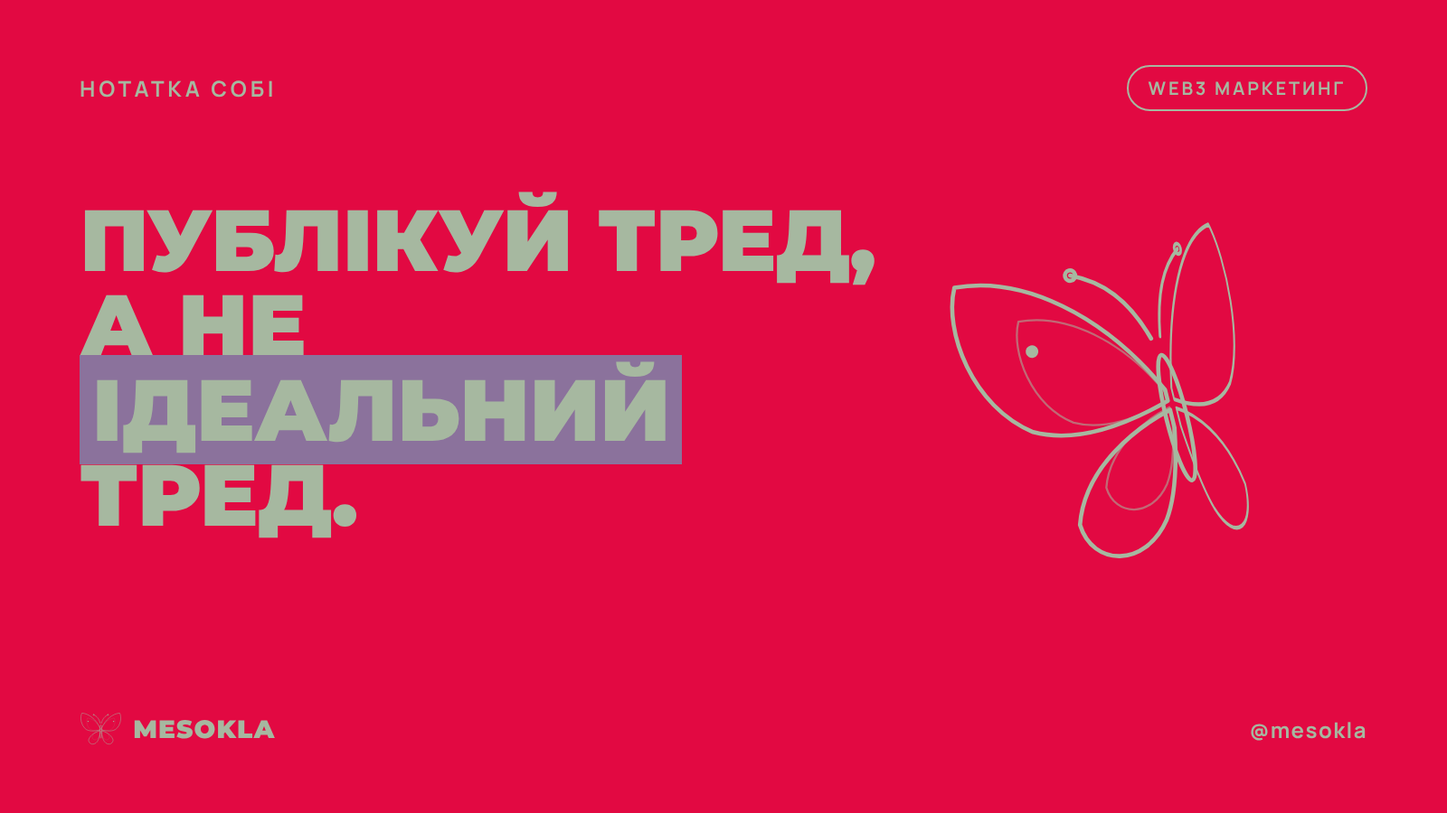
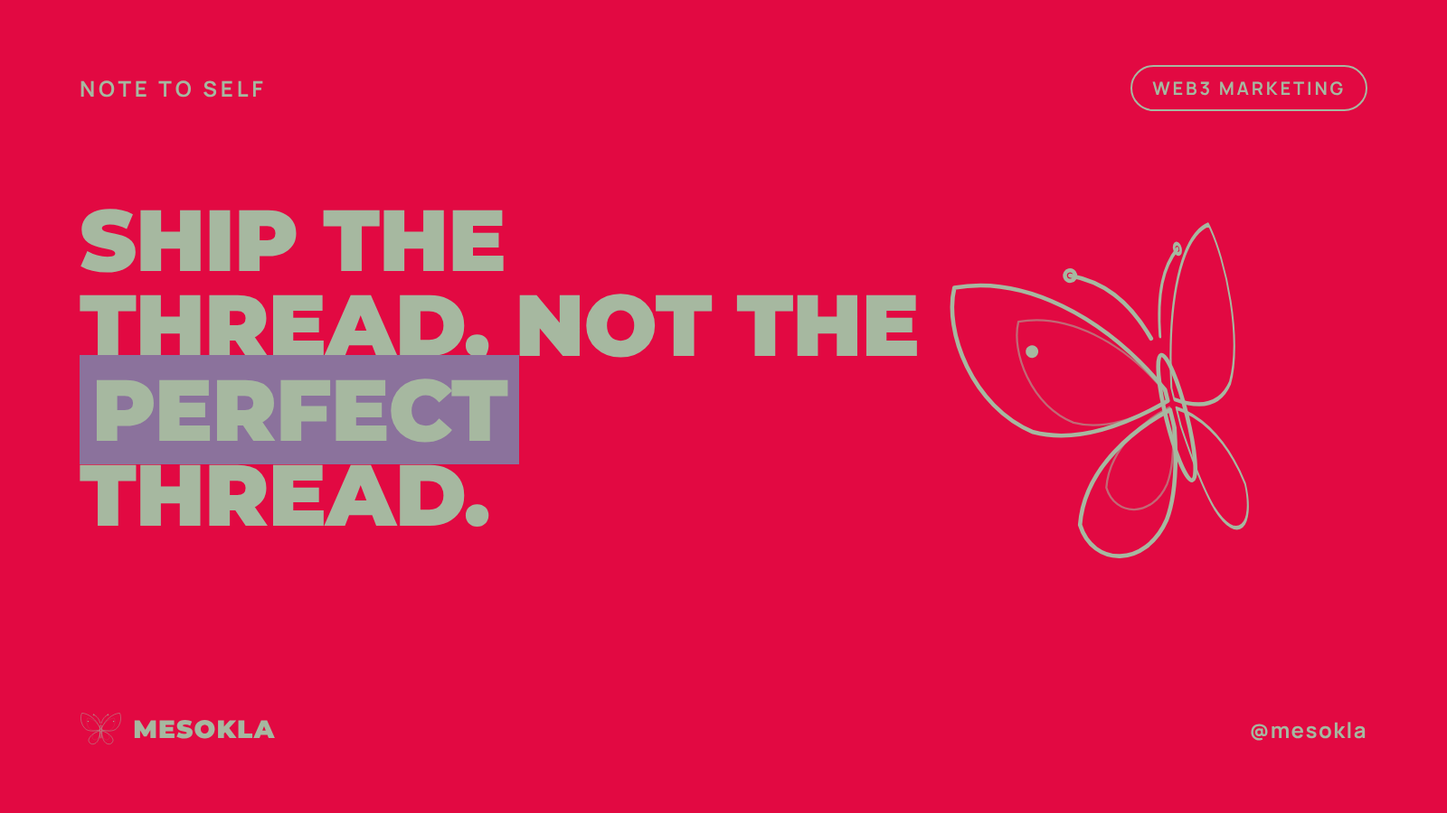
mesokla-brand: brand book and template defaults in English
Claude-Session: https://claude.ai/code/session_01Li97fhWJJ6ne7518bAykqP

Changed region(s): [[0.0312, 0.2178, 0.6562, 0.6533], [0.7812, 0.0933, 0.9375, 0.1244], [0.0938, 0.0933, 0.1875, 0.1244]]

diff --git a/.claude/skills/mesokla-brand/brandbook.html b/.claude/skills/mesokla-brand/brandbook.html
@@ -105,141 +105,141 @@ footer{padding-block:40px;background:var(--crimson);color:var(--leaf)}
 </style>
 
 <header class="s-leaf hero"><div class="wrap">
-  <div class="label">brandbook v4 · x / twitter</div>
+  <div class="label">brand book v5 · x / twitter</div>
   <h1 style="margin-top:22px">mesokla</h1>
-  <p class="lead">Три кольори з твого референсу і більше нічого. Великий жирний шрифт великими літерами, рівні плашки кольору, жодних текстур чи декору. Простота тут і є стиль.</p>
+  <p class="lead">Three colours, nothing else. Big bold uppercase type, flat colour blocks, no textures or decoration. The simplicity is the style. One line-art moth is the only illustration.</p>
 </div></header>
 
 <main>
 <section class="s-violet"><div class="wrap">
-  <div class="label">01 · колір</div>
-  <h2>Тільки три кольори</h2>
-  <p class="lead">Ні білого, ні чорного. Один з трьох кольорів стає фоном, другий іде на текст, третій на одну плашку-виділення.</p>
+  <div class="label">01 · colour</div>
+  <h2>Three colours only</h2>
+  <p class="lead">No white, no black. One colour is the background, the second carries the text, the third is a single highlight block.</p>
   <div class="cards">
-    <div class="card c-leaf"><div><div class="n">Шавлія</div><div class="r">Основний фон профілю і корисних постів.</div></div><div class="h">#A6B8A0</div></div>
-    <div class="card c-violet" style="outline:3px solid var(--leaf);outline-offset:-3px"><div><div class="n">Фіалка</div><div class="r">Треди, анонси, колаби. Виділення на листовому фоні.</div></div><div class="h">#8B729C</div></div>
-    <div class="card c-crimson"><div><div class="n">Малина</div><div class="r">Головний текст на листовому фоні, хот-тейки, акценти.</div></div><div class="h">#E20942</div></div>
+    <div class="card c-leaf"><div><div class="n">Leaf Skin</div><div class="r">Main background for the profile and value posts.</div></div><div class="h">#A6B8A0</div></div>
+    <div class="card c-violet" style="outline:3px solid var(--leaf);outline-offset:-3px"><div><div class="n">Muted Violet</div><div class="r">Threads, announcements, collabs. Highlight on leaf.</div></div><div class="h">#8B729C</div></div>
+    <div class="card c-crimson"><div><div class="n">Electric Crimson</div><div class="r">Main text on leaf, hot takes, accents.</div></div><div class="h">#E20942</div></div>
   </div>
   <div class="grid pairs">
-    <div class="pair c-leaf" style="outline:none">Шавлія<small style="color:var(--violet)">фон шавлія · текст малина · виділення фіалка</small></div>
-    <div class="pair c-violet">Фіалка<small>фон фіалка · текст шавлія · виділення малина</small></div>
-    <div class="pair c-crimson">Малина<small>фон малина · текст шавлія · виділення фіалка</small></div>
+    <div class="pair c-leaf" style="outline:none">Leaf<small style="color:var(--violet)">bg leaf · text crimson · highlight violet</small></div>
+    <div class="pair c-violet">Violet<small>bg violet · text leaf · highlight crimson</small></div>
+    <div class="pair c-crimson">Crimson<small>bg crimson · text leaf · highlight violet</small></div>
   </div>
-  <p class="never">Ніколи: малиновий текст на фіолетовому і фіолетовий на малиновому, бо ці кольори зливаються. Текст завжди листовий або на листовому.</p>
+  <p class="never">Never: crimson text on violet or violet text on crimson, the two blend together. Text is always leaf, or sits on leaf.</p>
 </div></section>
 
 <section class="s-leaf"><div class="wrap">
-  <div class="label">02 · шрифти</div>
-  <h2>Жирно і великими</h2>
+  <div class="label">02 · type</div>
+  <h2>Bold and uppercase</h2>
   <div class="grid type" style="margin-top:28px">
-    <div class="tcard"><div class="spec" style="color:var(--violet)">Заголовки · Montserrat Black 900 · капс</div><div style="font-family:var(--display);font-weight:900;font-size:clamp(44px,7vw,84px);line-height:.92;text-transform:uppercase">Спершу хук.<br>Потім <span style="background:var(--violet);color:var(--leaf);padding:0 .12em">користь</span>.</div><p style="font-size:15px">Заголовки, вордмарк, головна думка посту. Міжрядковий 0.92–1, без курсиву. Одне слово можна виділити плашкою.</p></div>
-    <div class="tcard"><div class="spec" style="color:var(--violet)">Дрібний текст · Manrope 600–800</div><div style="font-size:26px;font-weight:700;line-height:1.3">Пости, коли аудиторія не спить.</div><div class="label" style="color:var(--violet)">Тред · 1 / 9</div><p style="font-size:15px">Пункти списків, підписи, хендл. Для кікерів капс з розрядкою.</p></div>
+    <div class="tcard"><div class="spec" style="color:var(--violet)">Headlines · Montserrat Black 900 · caps</div><div style="font-family:var(--display);font-weight:900;font-size:clamp(44px,7vw,84px);line-height:.92;text-transform:uppercase">Hook first.<br>Then <span style="background:var(--violet);color:var(--leaf);padding:0 .12em">value</span>.</div><p style="font-size:15px">Headlines, wordmark, the main point of a post. Line height 0.92–1, no italics. One word may get a highlight block.</p></div>
+    <div class="tcard"><div class="spec" style="color:var(--violet)">Small text · Manrope 600–800</div><div style="font-size:26px;font-weight:700;line-height:1.3">Post when your audience is awake.</div><div class="label" style="color:var(--violet)">Thread · 1 / 9</div><p style="font-size:15px">List items, captions, handle. Kickers in tracked caps.</p></div>
   </div>
 </div></section>
 
 <section class="s-violet"><div class="wrap">
-  <div class="label">03 · метелик</div>
-  <h2>Знак бренду</h2>
-  <p class="lead">Лінійний метелик поєднує три варіанти, які тобі сподобались: середню лінію з Original, тонкий внутрішній контур з Fine і позу з In Flight. Він замінює маскота: живе в підписі, на банері та в анімаціях.</p>
+  <div class="label">03 · the moth</div>
+  <h2>Brand mark</h2>
+  <p class="lead">A line-art moth with a medium stroke, one fine inner contour and a wing spot. It replaces a mascot: it lives in the signature, on the banner and in animation.</p>
   <div class="mothhero"><div class="big"><svg class="flap" aria-hidden="true" viewBox="20 40 360 320"><g stroke="#E20942" stroke-width="3.6" fill="none" stroke-linecap="round" stroke-linejoin="round"><g class="wl"><path d="M196 196C160 120 100 70 40 66C22 100 30 170 76 204C116 226 168 214 196 206Z"/><path d="M196 214C164 222 112 244 96 292C98 330 142 342 170 306C184 286 192 252 196 230Z"/><g transform="translate(196 206) scale(.7) translate(-196 -206)" stroke="#8B729C" stroke-opacity="1" stroke-width="2.57"><path d="M196 196C160 120 100 70 40 66C22 100 30 170 76 204C116 226 168 214 196 206Z"/><path d="M196 214C164 222 112 244 96 292C98 330 142 342 170 306C184 286 192 252 196 230Z"/></g><circle cx="92" cy="136" r="5.5" fill="#E20942" stroke="none"/></g><g class="wr"><g transform="translate(400 0) scale(-1 1)"><path d="M196 196C160 120 100 70 40 66C22 100 30 170 76 204C116 226 168 214 196 206Z"/><path d="M196 214C164 222 112 244 96 292C98 330 142 342 170 306C184 286 192 252 196 230Z"/><g transform="translate(196 206) scale(.7) translate(-196 -206)" stroke="#8B729C" stroke-opacity="1" stroke-width="2.57"><path d="M196 196C160 120 100 70 40 66C22 100 30 170 76 204C116 226 168 214 196 206Z"/><path d="M196 214C164 222 112 244 96 292C98 330 142 342 170 306C184 286 192 252 196 230Z"/></g><circle cx="92" cy="136" r="5.5" fill="#E20942" stroke="none"/></g></g><path d="M195 150C184 112 166 92 140 80"/><circle cx="140" cy="80" r="4.5"/><g transform="translate(400 0) scale(-1 1)"><path d="M195 150C184 112 166 92 140 80"/><circle cx="140" cy="80" r="4.5"/></g><ellipse cx="200" cy="222" rx="9" ry="56"/></g></svg></div>
-    <div><h3>Три пози</h3><p><b>Front</b> для знаку, аватарки й підпису. <b>Flight</b> для руху у візуалах і стікерах. <b>Trail</b> (політ із пунктирним слідом) для банера та анонсів.</p>
-    <p style="margin-top:14px">Колір лінії залежить від фону: на листовому малинова з фіолетовим контуром, на фіолетовому й малиновому листова.</p></div></div>
-  <div class="tiles"><div class="tile t-l"><img src="moth/moth-front-crimson.svg" alt="Метелик front, лінія crimson" loading="lazy"><span class="cap">лінія малина</span></div><div class="tile t-v"><img src="moth/moth-front-leaf.svg" alt="Метелик front, лінія leaf" loading="lazy"><span class="cap">лінія шавлія</span></div><div class="tile t-c"><img src="moth/moth-front-leaf.svg" alt="Метелик front, лінія leaf" loading="lazy"><span class="cap">leaf line</span></div></div>
-  <div class="tiles"><div class="tile t-l"><img src="moth/moth-flight-crimson.svg" alt="Метелик flight, лінія crimson" loading="lazy"><span class="cap">crimson line</span></div><div class="tile t-v"><img src="moth/moth-flight-leaf.svg" alt="Метелик flight, лінія leaf" loading="lazy"><span class="cap">leaf line</span></div><div class="tile t-c"><img src="moth/moth-flight-leaf.svg" alt="Метелик flight, лінія leaf" loading="lazy"><span class="cap">leaf line</span></div></div>
-  <div class="tiles"><div class="tile t-l"><img src="moth/moth-trail-crimson.svg" alt="Метелик trail, лінія crimson" loading="lazy"><span class="cap">crimson line</span></div><div class="tile t-v"><img src="moth/moth-trail-leaf.svg" alt="Метелик trail, лінія leaf" loading="lazy"><span class="cap">leaf line</span></div><div class="tile t-c"><img src="moth/moth-trail-leaf.svg" alt="Метелик trail, лінія leaf" loading="lazy"><span class="cap">leaf line</span></div></div>
-  <h3 style="margin-top:44px">Підпис</h3>
-  <p>Метелик плюс MESOKLA. Стоїть у лівому нижньому куті кожного посту автоматично.</p>
+    <div><h3>Three poses</h3><p><b>Front</b> for the mark, avatar and signature. <b>Flight</b> for motion in visuals and stickers. <b>Trail</b> (flight with a dotted path) for the banner and announcements.</p>
+    <p style="margin-top:14px">The line colour follows the background: crimson with a violet contour on leaf, leaf on violet and crimson.</p></div></div>
+  <div class="tiles"><div class="tile t-l"><img src="moth/moth-front-crimson.svg" alt="Moth, front pose, crimson line" loading="lazy"><span class="cap">crimson line</span></div><div class="tile t-v"><img src="moth/moth-front-leaf.svg" alt="Moth, front pose, leaf line" loading="lazy"><span class="cap">leaf line</span></div><div class="tile t-c"><img src="moth/moth-front-leaf.svg" alt="Moth, front pose, leaf line" loading="lazy"><span class="cap">leaf line</span></div></div>
+  <div class="tiles"><div class="tile t-l"><img src="moth/moth-flight-crimson.svg" alt="Moth, flight pose, crimson line" loading="lazy"><span class="cap">crimson line</span></div><div class="tile t-v"><img src="moth/moth-flight-leaf.svg" alt="Moth, flight pose, leaf line" loading="lazy"><span class="cap">leaf line</span></div><div class="tile t-c"><img src="moth/moth-flight-leaf.svg" alt="Moth, flight pose, leaf line" loading="lazy"><span class="cap">leaf line</span></div></div>
+  <div class="tiles"><div class="tile t-l"><img src="moth/moth-trail-crimson.svg" alt="Moth, trail pose, crimson line" loading="lazy"><span class="cap">crimson line</span></div><div class="tile t-v"><img src="moth/moth-trail-leaf.svg" alt="Moth, trail pose, leaf line" loading="lazy"><span class="cap">leaf line</span></div><div class="tile t-c"><img src="moth/moth-trail-leaf.svg" alt="Moth, trail pose, leaf line" loading="lazy"><span class="cap">leaf line</span></div></div>
+  <h3 style="margin-top:44px">Signature</h3>
+  <p>Moth plus MESOKLA. Added to the bottom-left corner of every post automatically.</p>
   <div class="lockup">
     <div class="lock c-leaf" style="outline:3px solid var(--violet);outline-offset:-3px"><img src="moth/moth-front-crimson.svg" alt="">mesokla</div>
     <div class="lock c-violet"><img src="moth/moth-front-leaf.svg" alt="">mesokla</div>
     <div class="lock c-crimson"><img src="moth/moth-front-leaf.svg" alt="">mesokla</div>
   </div>
-  <div class="rules2"><div><h3>Можна</h3><ul><li>Масштабувати від іконки до пів кадру</li><li>Анімувати: помах крил, промальовка лінії, політ по сліду</li><li>Ставити поруч із заголовком або в порожній куток</li></ul></div>
-  <div><h3>Не можна</h3><ul><li>Заливати крила кольором (для цього є елементи)</li><li>Змінювати товщину лінії чи додавати тінь</li><li>Ставити поверх тексту або більше одного на візуал</li></ul></div></div>
+  <div class="rules2"><div><h3>Do</h3><ul><li>Scale it from an icon to half the frame</li><li>Animate it: wing flap, line draw-on, flight along the trail</li><li>Place it next to a headline or in an empty corner</li></ul></div>
+  <div><h3>Don’t</h3><ul><li>Fill the wings with colour (that’s what the elements are for)</li><li>Change the stroke weight or add shadows</li><li>Put it over text, or use more than one per visual</li></ul></div></div>
 </div></section>
 
 <section class="s-leaf"><div class="wrap">
-  <div class="label">04 · елементи</div>
-  <h2>Абстрактні елементи</h2>
-  <p class="lead">Вісім форм, витягнутих із метелика: крило, силует, контур, пелюстка, слід польоту, вічко, вусик, крапки. Кожна є в трьох кольорах. Суцільні форми беруть третій колір бренду, лінійні беруть колір тексту.</p>
-  <div class="els"><div class="elc"><div class="tile t-l"><img src="elements/wing-violet.svg" alt="Елемент Крило" loading="lazy"></div><div class="t"><b>Крило</b>Суцільне переднє крило. Великим обрізаним кадром у кутку.</div></div><div class="elc"><div class="tile t-v"><img src="elements/wings-crimson.svg" alt="Елемент Силует" loading="lazy"></div><div class="t"><b>Силует</b>Чотири крила без тіла. Знак, патерн, аватарка.</div></div><div class="elc"><div class="tile t-c"><img src="elements/contour-violet.svg" alt="Елемент Контур" loading="lazy"></div><div class="t"><b>Контур</b>Луни крила. Лінійний акцент, рух у промальовці.</div></div><div class="elc"><div class="tile t-l"><img src="elements/lens-violet.svg" alt="Елемент Пелюстка" loading="lazy"></div><div class="t"><b>Пелюстка</b>Найпростіша форма крила. Обрізана в кутку.</div></div><div class="elc"><div class="tile t-v"><img src="elements/trail-crimson.svg" alt="Елемент Слід" loading="lazy"></div><div class="t"><b>Слід</b>Пунктир польоту. Вказує на текст, дату, CTA.</div></div><div class="elc"><div class="tile t-c"><img src="elements/spot-violet.svg" alt="Елемент Вічко" loading="lazy"></div><div class="t"><b>Вічко</b>Пляма з крила. Фокус, ціль, «головне».</div></div><div class="elc"><div class="tile t-l"><img src="elements/curl-violet.svg" alt="Елемент Вусик" loading="lazy"></div><div class="t"><b>Вусик</b>Завиток вусика. Маленький акцент біля тексту.</div></div><div class="elc"><div class="tile t-v"><img src="elements/dots-crimson.svg" alt="Елемент Крапки" loading="lazy"></div><div class="t"><b>Крапки</b>Три крапки з плям. Ритм, «далі буде».</div></div></div>
-  <div class="rules2"><div><h3>Як ставити</h3><ul><li>Один елемент на візуал</li><li>Великий і обрізаний краєм кадру або маленький біля тексту</li><li>Елемент завжди під текстом і не перекриває його</li></ul></div>
-  <div><h3>Кольори</h3><ul><li>На листовому фоні фіолетовий</li><li>На фіолетовому малиновий</li><li>На малиновому фіолетовий</li></ul></div></div>
+  <div class="label">04 · elements</div>
+  <h2>Abstract elements</h2>
+  <p class="lead">Eight shapes taken from the moth: wing, silhouette, contour, petal, flight trail, eyespot, curl and dots. Each comes in all three colours. Solid shapes use the third brand colour, line shapes use the text colour.</p>
+  <div class="els"><div class="elc"><div class="tile t-l"><img src="elements/wing-violet.svg" alt="Wing element" loading="lazy"></div><div class="t"><b>Wing</b>Solid forewing. Large, cropped by a corner.</div></div><div class="elc"><div class="tile t-v"><img src="elements/wings-crimson.svg" alt="Silhouette element" loading="lazy"></div><div class="t"><b>Silhouette</b>Four wings, no body. Mark, pattern, avatar.</div></div><div class="elc"><div class="tile t-c"><img src="elements/contour-violet.svg" alt="Contour element" loading="lazy"></div><div class="t"><b>Contour</b>Wing echo lines. Line accent, great for draw-on.</div></div><div class="elc"><div class="tile t-l"><img src="elements/lens-violet.svg" alt="Petal element" loading="lazy"></div><div class="t"><b>Petal</b>The simplest wing form. Cropped in a corner.</div></div><div class="elc"><div class="tile t-v"><img src="elements/trail-crimson.svg" alt="Trail element" loading="lazy"></div><div class="t"><b>Trail</b>Dotted flight path. Points at text, a date, a CTA.</div></div><div class="elc"><div class="tile t-c"><img src="elements/spot-violet.svg" alt="Eyespot element" loading="lazy"></div><div class="t"><b>Eyespot</b>The wing spot. Focus, target, “the main thing”.</div></div><div class="elc"><div class="tile t-l"><img src="elements/curl-violet.svg" alt="Curl element" loading="lazy"></div><div class="t"><b>Curl</b>Antenna curl. Small accent next to text.</div></div><div class="elc"><div class="tile t-v"><img src="elements/dots-crimson.svg" alt="Dots element" loading="lazy"></div><div class="t"><b>Dots</b>Three wing spots. Rhythm, “more to come”.</div></div></div>
+  <div class="rules2"><div><h3>Placement</h3><ul><li>One element per visual</li><li>Large and cropped by the frame edge, or small next to text</li><li>Always behind the text, never covering it</li></ul></div>
+  <div><h3>Colour</h3><ul><li>On leaf: violet</li><li>On violet: crimson</li><li>On crimson: violet</li></ul></div></div>
 </div></section>
 
 <section class="s-crimson"><div class="wrap">
-  <div class="label">05 · профіль</div>
-  <h2>Банер і профіль</h2>
-  <p class="lead">Чотири банери 1500×500, на трьох з них метелик летить до напису. Нижній лівий кут лишається порожнім, бо там аватар.</p>
+  <div class="label">05 · profile</div>
+  <h2>Banner and profile</h2>
+  <p class="lead">Four 1500×500 banners; on three of them the moth flies towards the wordmark. The bottom-left corner stays empty because the avatar covers it.</p>
   <div class="grid banners">
-    <figure><img class="shot" src="out/banner-leaf.png" alt="Банер Leaf: малиновий напис MESOKLA на листовому фоні" loading="lazy"><figcaption><b>Leaf</b> · основний</figcaption></figure>
-    <figure><img class="shot" src="out/banner-violet.png" alt="Банер Violet: листовий напис на фіолетовому" loading="lazy"><figcaption><b>Violet</b> · запасний</figcaption></figure>
-    <figure><img class="shot" src="out/banner-crimson.png" alt="Банер Crimson: листовий напис на малиновому" loading="lazy"><figcaption><b>Crimson</b> · на час кампанії</figcaption></figure>
-    <figure><img class="shot" src="out/banner-stripes.png" alt="Банер Stripes: три смуги кольорів з назвами шавлія, фіалка, малина" loading="lazy"><figcaption><b>Stripes</b> · палітра як банер</figcaption></figure>
+    <figure><img class="shot" src="out/banner-leaf.png" alt="Leaf banner: crimson MESOKLA on leaf" loading="lazy"><figcaption><b>Leaf</b> · main</figcaption></figure>
+    <figure><img class="shot" src="out/banner-violet.png" alt="Violet banner: leaf wordmark on violet" loading="lazy"><figcaption><b>Violet</b> · alternate</figcaption></figure>
+    <figure><img class="shot" src="out/banner-crimson.png" alt="Crimson banner: leaf wordmark on crimson" loading="lazy"><figcaption><b>Crimson</b> · campaign weeks</figcaption></figure>
+    <figure><img class="shot" src="out/banner-stripes.png" alt="Stripes banner: three colour columns named leaf, violet, crimson" loading="lazy"><figcaption><b>Stripes</b> · the palette as a banner</figcaption></figure>
   </div>
   <div class="grid profile">
-    <div class="copy"><div class="label">біо</div><pre>cc / web3 marketer @solus_group
+    <div class="copy"><div class="label">bio</div><pre>cc / web3 marketer @solus_group
 dm for collab</pre></div>
-    <div class="copy"><div class="label">аватар</div><pre>Твоє фото на однотонному листовому або фіолетовому тлі (фон можна прибрати в Canva), щоб аватар і банер були однієї гами.</pre></div>
+    <div class="copy"><div class="label">avatar</div><pre>Your photo on a flat leaf or violet background (remove the original background in Canva), so the avatar and banner share one palette.</pre></div>
   </div>
 </div></section>
 
 <section class="s-leaf"><div class="wrap">
-  <div class="label">06 · рубрики</div>
-  <h2>Колір = тип посту</h2>
+  <div class="label">06 · pillars</div>
+  <h2>Colour = post type</h2>
   <div class="grid pillars">
-    <div class="pil c-leaf"><span class="label">theme=leaf</span><h3>Користь</h3><p>Тули, фреймворки, чеклісти. Пости, які зберігають.</p></div>
-    <div class="pil c-violet"><span class="label">theme=violet</span><h3>Треди й колаби</h3><p>Обкладинки тредів, спейси, анонси.</p></div>
-    <div class="pil c-crimson"><span class="label">theme=crimson</span><h3>Гострі думки</h3><p>Хот-тейки, факапи, думки о другій ночі.</p></div>
+    <div class="pil c-leaf"><span class="label">theme=leaf</span><h3>Value</h3><p>Tools, frameworks, checklists. Posts people save.</p></div>
+    <div class="pil c-violet"><span class="label">theme=violet</span><h3>Threads &amp; collabs</h3><p>Thread covers, spaces, announcements.</p></div>
+    <div class="pil c-crimson"><span class="label">theme=crimson</span><h3>Hot takes</h3><p>Opinions, fails, 2am thoughts.</p></div>
   </div>
 </div></section>
 
 <section class="s-violet"><div class="wrap">
-  <div class="label">07 · візуали до постів</div>
-  <h2>Шаблони</h2>
-  <p class="lead">16:9 (1600×900) для стрічки X і 4:5 (1080×1350) для каруселей і Instagram. Будь-який шаблон працює в будь-якій з трьох тем.</p>
+  <div class="label">07 · post visuals</div>
+  <h2>Templates</h2>
+  <p class="lead">16:9 (1600×900) for the X feed and 4:5 (1080×1350) for carousels and Instagram. Every template works in all three themes.</p>
   <div class="grid posts">
-    <figure><img class="shot" src="out/post-quote.png" alt="Хот-тейк на листовому фоні" loading="lazy"><figcaption><b>quote · el=wing</b> · хот-тейк з крилом у кутку</figcaption></figure>
-    <figure><img class="shot" src="out/post-quote-crimson.png" alt="Цитата на малиновому фоні з метеликом" loading="lazy"><figcaption><b>quote · crimson · el=moth</b> · той самий шаблон в іншій темі, з метеликом</figcaption></figure>
-    <figure><img class="shot" src="out/post-quote-lens.png" alt="Цитата на фіолетовому з пелюсткою" loading="lazy"><figcaption><b>quote · violet · el=lens</b> · з пелюсткою в кутку</figcaption></figure>
-    <figure><img class="shot" src="out/post-quote-spot.png" alt="Цитата на малиновому з вічком" loading="lazy"><figcaption><b>quote · crimson · el=spot</b> · з вічком</figcaption></figure>
-    <figure><img class="shot" src="out/post-thread.png" alt="Обкладинка треду на фіолетовому" loading="lazy"><figcaption><b>thread · el=contour</b> · перший твіт треду</figcaption></figure>
-    <figure><img class="shot" src="out/post-do-dont.png" alt="Порівняння так і не так" loading="lazy"><figcaption><b>do-dont</b> · «так / не так», порівняння як треба і як буває</figcaption></figure>
-    <figure><img class="shot" src="out/post-list.png" alt="Список з п'яти тулів" loading="lazy"><figcaption><b>list</b> · 3–6 пунктів</figcaption></figure>
-    <figure><img class="shot" src="out/post-collab.png" alt="Анонс колаборації" loading="lazy"><figcaption><b>collab · el=trail</b> · колаби, спейси, івенти</figcaption></figure>
-    <figure style="max-width:420px"><img class="shot" src="out/post-stack.png" alt="Три кольорові смуги з трьома правилами" loading="lazy"><figcaption><b>stack</b> · 4:5, три смуги як у референсі, по одній думці на смугу</figcaption></figure>
+    <figure><img class="shot" src="out/post-quote.png" alt="Hot take on leaf with a wing" loading="lazy"><figcaption><b>quote · el=wing</b> · hot take with a wing in the corner</figcaption></figure>
+    <figure><img class="shot" src="out/post-quote-crimson.png" alt="Quote on crimson with the moth" loading="lazy"><figcaption><b>quote · crimson · el=moth</b> · same template, another theme, with the moth</figcaption></figure>
+    <figure><img class="shot" src="out/post-quote-lens.png" alt="Quote on violet with a petal" loading="lazy"><figcaption><b>quote · violet · el=lens</b> · with a petal in the corner</figcaption></figure>
+    <figure><img class="shot" src="out/post-quote-spot.png" alt="Quote on crimson with an eyespot" loading="lazy"><figcaption><b>quote · crimson · el=spot</b> · with an eyespot</figcaption></figure>
+    <figure><img class="shot" src="out/post-thread.png" alt="Thread cover on violet" loading="lazy"><figcaption><b>thread · el=contour</b> · first tweet of a thread</figcaption></figure>
+    <figure><img class="shot" src="out/post-do-dont.png" alt="Do and don’t comparison" loading="lazy"><figcaption><b>do-dont</b> · how it should be vs how it goes</figcaption></figure>
+    <figure><img class="shot" src="out/post-list.png" alt="List of five tools" loading="lazy"><figcaption><b>list</b> · 3–6 items</figcaption></figure>
+    <figure><img class="shot" src="out/post-collab.png" alt="Collab announcement" loading="lazy"><figcaption><b>collab · el=trail</b> · collabs, spaces, events</figcaption></figure>
+    <figure style="max-width:420px"><img class="shot" src="out/post-stack.png" alt="Three colour bands with three rules" loading="lazy"><figcaption><b>stack</b> · 4:5, three bands like the reference, one idea per band</figcaption></figure>
   </div>
 </div></section>
 
 <section class="s-leaf"><div class="wrap">
-  <div class="label">08 · відео</div>
+  <div class="label">08 · video</div>
   <div style="margin-top:16px">
-    <div><h2 style="font-size:clamp(36px,5vw,60px)">Інтро з метеликом</h2><p>Три сценарії по 4,5 секунди, кожен на будь-якому з трьох фонів. Комбінуй їх, щоб відео щоразу починалося трохи інакше.</p></div>
+    <div><h2 style="font-size:clamp(36px,5vw,60px)">Moth intros</h2><p>Three 4.5-second scenarios, each on any of the three backgrounds. Mix them so every video opens a little differently.</p></div>
   </div>
   <div class="grid vids">
-    <figure><video class="shot" src="out/intro-fly-crimson.mp4" autoplay muted loop playsinline controls aria-label="Інтро: метелик прилітає по пунктирному сліду на малиновому фоні"></video><figcaption><b>Політ · малина</b> · метелик прилітає по пунктирному сліду і сідає над написом</figcaption></figure>
-    <figure><video class="shot" src="out/intro-draw-leaf.mp4" autoplay muted loop playsinline controls aria-label="Інтро: метелик промальовується лінією на шавлієвому фоні"></video><figcaption><b>Промальовка · шавлія</b> · лінія малює метелика, він махає крилами і злітає до напису</figcaption></figure>
-    <figure><video class="shot" src="out/intro-zoom-violet.mp4" autoplay muted loop playsinline controls aria-label="Інтро: камера відʼїжджає від крила на фіолетовому фоні"></video><figcaption><b>Зум · фіалка</b> · старт усередині контурів крила, камера відʼїжджає і показує метелика</figcaption></figure>
-    <figure><video class="shot" src="out/intro-fly-leaf.mp4" autoplay muted loop playsinline controls aria-label="Інтро: політ на шавлієвому фоні"></video><figcaption><b>Політ · шавлія</b> · той самий сценарій в іншому кольорі</figcaption></figure>
+    <figure><video class="shot" src="out/intro-fly-crimson.mp4" autoplay muted loop playsinline controls aria-label="Intro: the moth flies in along a dotted trail on crimson"></video><figcaption><b>Fly · crimson</b> · the moth flies in along a dotted trail and lands above the wordmark</figcaption></figure>
+    <figure><video class="shot" src="out/intro-draw-leaf.mp4" autoplay muted loop playsinline controls aria-label="Intro: the moth is drawn by a line on leaf"></video><figcaption><b>Draw · leaf</b> · the line draws the moth, it flaps and rises to the wordmark</figcaption></figure>
+    <figure><video class="shot" src="out/intro-zoom-violet.mp4" autoplay muted loop playsinline controls aria-label="Intro: camera pulls back from the wing on violet"></video><figcaption><b>Zoom · violet</b> · starts inside the wing contours and pulls back to the moth</figcaption></figure>
+    <figure><video class="shot" src="out/intro-fly-leaf.mp4" autoplay muted loop playsinline controls aria-label="Intro: fly scenario on leaf"></video><figcaption><b>Fly · leaf</b> · same scenario in another colour</figcaption></figure>
   </div>
 </div></section>
 
 <section class="s-crimson"><div class="wrap">
-  <div class="label">09 · скіл</div>
-  <h2>Як користуватися</h2>
-  <p class="lead">Пак лежить у репозиторії як скіл mesokla-brand. Пиши Claude, що потрібно, і він збере візуал за цими правилами.</p>
+  <div class="label">09 · the skill</div>
+  <h2>How to use it</h2>
+  <p class="lead">The pack lives in the repository as the mesokla-brand skill. Tell Claude what you need and it builds the visual with these rules.</p>
   <div class="grid cmds">
-    <div class="cmd"><div class="label">хот-тейк</div><p>«Зроби візуал до твіту про ком’юніті»</p><code>node scripts/render.mjs quote out/x.png \
-  "text=Ком’юніті — це твій *продукт*."</code></div>
-    <div class="cmd"><div class="label">тред</div><p>«Обкладинка треду про KOL-кампанії, 7 твітів»</p><code>node scripts/render.mjs thread out/t.png \
-  "title=KOL-кампанії, *які* працюють" count="1 / 7" el=contour</code></div>
-    <div class="cmd"><div class="label">так / не так</div><p>«Зроби так / не так про запуски»</p><code>node scripts/render.mjs do-dont out/dd.png \
-  "yes=Бриф з KPI|Мід-тір KOL" "no=Платити за твіт|Молитися"</code></div>
-    <div class="cmd"><div class="label">елемент або метелик</div><p>Додай до будь-якого посту el=wing, wings, contour, lens, trail, spot, curl, dots або moth</p><code>node scripts/render.mjs quote out/q.png \
-  "text=Регулярність *перемагає* віральність." theme=violet el=lens</code></div>
-    <div class="cmd"><div class="label">банер і відео</div><p>«Онови банер під кампанію» або «Зроби інтро: політ на малиновому»</p><code>node scripts/render.mjs banner out/b.png theme=crimson
+    <div class="cmd"><div class="label">hot take</div><p>“Make a visual for a tweet about community”</p><code>node scripts/render.mjs quote out/x.png \
+  "text=Your community is your *product*."</code></div>
+    <div class="cmd"><div class="label">thread</div><p>“Thread cover about KOL campaigns, 7 tweets”</p><code>node scripts/render.mjs thread out/t.png \
+  "title=KOL campaigns *that* work" count="1 / 7" el=contour</code></div>
+    <div class="cmd"><div class="label">do / don’t</div><p>“Make a do / don’t about launches”</p><code>node scripts/render.mjs do-dont out/dd.png \
+  "yes=Brief with KPIs|Mid-tier KOLs" "no=Pay for a tweet|Pray"</code></div>
+    <div class="cmd"><div class="label">element or moth</div><p>Add el=wing, wings, contour, lens, trail, spot, curl, dots or moth to any post</p><code>node scripts/render.mjs quote out/q.png \
+  "text=Consistency *beats* virality." theme=violet el=lens</code></div>
+    <div class="cmd"><div class="label">banner and video</div><p>“Update the banner for the campaign” or “Make an intro: fly on crimson”</p><code>node scripts/render.mjs banner out/b.png theme=crimson
 node scripts/video.mjs "templates/intro.html?v=fly&amp;theme=crimson" out/i.mp4 4.5</code></div>
   </div>
 </div></section>
 </main>
-<footer><div class="wrap label">mesokla · шавлія #A6B8A0 · фіалка #8B729C · малина #E20942</div></footer>
+<footer><div class="wrap label">mesokla · leaf #A6B8A0 · violet #8B729C · crimson #E20942</div></footer>

diff --git a/.claude/skills/mesokla-brand/templates/do-dont.html b/.claude/skills/mesokla-brand/templates/do-dont.html
@@ -13,10 +13,10 @@ li{font-size:36px;font-weight:700;line-height:1.25;padding-top:22px;border-top:3
 .foot{margin-top:auto;display:flex;justify-content:space-between}
 .sense .label{color:var(--violet)}
 </style></head><body><div class="canvas">
-<div class="side sense"><span class="label" data-f="la">робимо</span><h2 class="display" data-f="a">так</h2>
- <ul data-list="yes" data-default="Пости, коли аудиторія не спить|Один CTA на пост|Відповідь на перші 20 коментарів"></ul>
+<div class="side sense"><span class="label" data-f="la">do this</span><h2 class="display" data-f="a">do</h2>
+ <ul data-list="yes" data-default="Post when your audience is awake|One CTA per post|Reply to the first 20 comments"></ul>
  <div class="foot"><span class="sig" style="color:inherit">mesokla</span></div></div>
-<div class="side mess"><span class="label" data-f="lb">не робимо</span><h2 class="display" data-f="b">не так</h2>
- <ul data-list="no" data-default="Пости о 3-й ночі, бо вайб|GM ×40 без контексту|Ігнор власних реплаїв"></ul>
+<div class="side mess"><span class="label" data-f="lb">skip this</span><h2 class="display" data-f="b">don’t</h2>
+ <ul data-list="no" data-default="Post at 3am because vibes|GM ×40, no context|Ghost your own replies"></ul>
  <div class="foot" style="justify-content:flex-end"><span class="handle" data-f="handle">@mesokla</span></div></div>
 </div><script src="fill.js"></script></body></html>

diff --git a/.claude/skills/mesokla-brand/templates/list.html b/.claude/skills/mesokla-brand/templates/list.html
@@ -8,8 +8,8 @@ li{counter-increment:i;display:grid;grid-template-columns:90px 1fr;align-items:b
 li:last-child{border-bottom:3px solid var(--sub)}
 li::before{content:"0" counter(i);font-family:var(--display);font-weight:900;font-size:30px;color:var(--sub)}
 </style></head><body><div class="canvas"><div class="frame">
- <div class="top"><span class="label" data-f="kicker">інструменти</span><span class="pill" data-f="tag">збережи</span></div>
- <div class="wrap"><h1 class="display" data-f="title">5 тулів, які я юзаю <em>щодня</em></h1>
- <ol data-list="items" data-default="Dune — ончейн-дашборди|Kaito — частка уваги|Typefully — треди|Notion — контент-план|Claude — тексти й візуали"></ol></div>
+ <div class="top"><span class="label" data-f="kicker">tools</span><span class="pill" data-f="tag">save this</span></div>
+ <div class="wrap"><h1 class="display" data-f="title">5 tools I use <em>every</em> day</h1>
+ <ol data-list="items" data-default="Dune — on-chain dashboards|Kaito — mindshare tracking|Typefully — threads|Notion — content calendar|Claude — drafts &amp; visuals"></ol></div>
  <div class="bottom"><span class="sig">mesokla</span><span class="handle" data-f="handle">@mesokla</span></div>
 </div></div><script src="fill.js"></script></body></html>

diff --git a/.claude/skills/mesokla-brand/templates/collab.html b/.claude/skills/mesokla-brand/templates/collab.html
@@ -3,9 +3,9 @@
 <style>.c{margin:auto 0}.x{font-size:150px;line-height:.9}.x .times{color:var(--crimson)}
 body[data-theme=crimson] .x .times{color:var(--violet)}
 .what{margin-top:44px;color:var(--sub);font-size:30px}.date{margin-top:36px;display:inline-block;font-family:var(--display);font-weight:900;font-size:44px;text-transform:uppercase;background:var(--mark);color:var(--mark-fg);padding:14px 28px}</style></head><body data-theme="leaf"><div class="canvas"><div class="frame">
- <div class="top"><span class="label" data-f="kicker">анонс</span><span class="pill" data-f="tag">нова колаба</span></div>
+ <div class="top"><span class="label" data-f="kicker">announcement</span><span class="pill" data-f="tag">new collab</span></div>
  <div class="c"><div class="x display"><span>mesokla</span> <span class="times">×</span><br><span data-f="partner">solus group</span></div>
- <div class="what label" data-f="what">x space / ріст у web3</div>
- <div class="date" data-f="date">14.11 · 18:00 київ</div></div>
+ <div class="what label" data-f="what">x space / web3 growth</div>
+ <div class="date" data-f="date">14.11 · 18:00 kyiv</div></div>
  <div class="bottom"><span class="sig">mesokla</span><span class="handle" data-f="handle">@mesokla</span></div>
 </div></div><script src="fill.js"></script></body></html>

diff --git a/.claude/skills/mesokla-brand/templates/stack.html b/.claude/skills/mesokla-brand/templates/stack.html
@@ -9,7 +9,7 @@
 .b1 .row{color:var(--violet)}
 .b .display{font-size:76px}
 </style></head><body><div class="canvas">
-<div class="b b1"><div class="row"><span class="label" data-f="kicker">3 правила для X</span><span class="label" data-f="handle">@mesokla</span></div><div class="display" data-f="t1">спершу хук</div></div>
-<div class="b b2"><div class="row"><span class="label">02</span></div><div class="display" data-f="t2">одна думка — один пост</div></div>
-<div class="b b3"><div class="row"><span class="label">03</span><span class="sig" style="color:inherit;font-size:26px">mesokla</span></div><div class="display" data-f="t3">відповідай як людина</div></div>
+<div class="b b1"><div class="row"><span class="label" data-f="kicker">3 rules for X</span><span class="label" data-f="handle">@mesokla</span></div><div class="display" data-f="t1">hook first</div></div>
+<div class="b b2"><div class="row"><span class="label">02</span></div><div class="display" data-f="t2">one idea per post</div></div>
+<div class="b b3"><div class="row"><span class="label">03</span><span class="sig" style="color:inherit;font-size:26px">mesokla</span></div><div class="display" data-f="t3">reply like a human</div></div>
 </div><script src="fill.js"></script></body></html>

diff --git a/.claude/skills/mesokla-brand/templates/thread.html b/.claude/skills/mesokla-brand/templates/thread.html
@@ -1,8 +1,8 @@
 <!doctype html><html><head><meta charset="utf-8"><title>Thread cover · 1600×900</title>
 <link rel="stylesheet" href="../brand.css">
 <style>.t{margin:auto 0}.t h1{font-size:132px;max-width:1300px}.sub{margin-top:40px;font-size:34px;font-weight:600;line-height:1.35;max-width:980px;color:var(--sub)}</style></head><body data-theme="violet"><div class="canvas"><div class="frame">
- <div class="top"><span class="label" data-f="kicker">тред</span><span class="pill" data-f="count">1 / 9</span></div>
- <div class="t"><h1 class="display" data-f="title">Як запустити токен <em>без</em> мертвого Discord</h1>
- <div class="sub" data-f="sub">9 речей, які я роблю в @solus_group до, під час і після TGE.</div></div>
+ <div class="top"><span class="label" data-f="kicker">thread</span><span class="pill" data-f="count">1 / 9</span></div>
+ <div class="t"><h1 class="display" data-f="title">How to launch a token <em>without</em> a dead Discord</h1>
+ <div class="sub" data-f="sub">9 things I do at @solus_group before, during and after TGE.</div></div>
  <div class="bottom"><span class="sig">mesokla</span><span class="handle" data-f="handle">@mesokla</span></div>
 </div></div><script src="fill.js"></script></body></html>

diff --git a/.claude/skills/mesokla-brand/templates/quote.html b/.claude/skills/mesokla-brand/templates/quote.html
@@ -1,7 +1,7 @@
 <!doctype html><html><head><meta charset="utf-8"><title>Hot take · 1600×900</title>
 <link rel="stylesheet" href="../brand.css">
 <style>.text{margin:auto 0;font-size:112px;max-width:1380px;line-height:.98}</style></head><body><div class="canvas"><div class="frame">
- <div class="top"><span class="label" data-f="kicker">хот-тейк</span><span class="pill" data-f="tag">web3 маркетинг</span></div>
- <div class="text display" data-f="text">Ком’юніті — не аудиторія. Це твій <em>продукт</em>.</div>
+ <div class="top"><span class="label" data-f="kicker">hot take</span><span class="pill" data-f="tag">web3 marketing</span></div>
+ <div class="text display" data-f="text">Your community is not your audience. It’s your <em>product</em>.</div>
  <div class="bottom"><span class="sig">mesokla</span><span class="handle" data-f="handle">@mesokla</span></div>
 </div></div><script src="fill.js"></script></body></html>

diff --git a/.claude/skills/mesokla-brand/templates/banner.html b/.claude/skills/mesokla-brand/templates/banner.html
@@ -24,9 +24,9 @@ body[data-theme=stripes] .word,body[data-theme=stripes] .corner{display:none}
 <div class="word"><div class="display" data-f="name">mesokla</div><div class="tag label" data-f="tag"></div></div>
 <img class="bmoth" alt="" hidden>
 <div class="stripes">
- <div><span class="display">шавлія</span><span class="label">#A6B8A0</span></div>
- <div><span class="display">фіалка</span><span class="label">#8B729C</span></div>
- <div><span class="display">малина</span><span class="label">#E20942</span></div>
+ <div><span class="display">leaf</span><span class="label">#A6B8A0</span></div>
+ <div><span class="display">violet</span><span class="label">#8B729C</span></div>
+ <div><span class="display">crimson</span><span class="label">#E20942</span></div>
 </div>
 </div><script src="fill.js"></script><script>
 (()=>{const m=new URLSearchParams(location.search).get('moth')||'trail';if(m==='none')return;

diff --git a/.claude/skills/mesokla-brand/SKILL.md b/.claude/skills/mesokla-brand/SKILL.md
@@ -6,7 +6,7 @@ description: The @mesokla visual identity for X/Twitter — three colours only (
 # mesokla brand
 
 Owner: @mesokla, web3 marketer at @solus_group, Ukraine.
-**Language:** visuals and examples are in Ukrainian by default (template defaults are Ukrainian); use English only if the user asks.
+**Language:** the brand book, visuals and examples are in English (template defaults are English). Ukrainian copy also renders fine (fonts include Cyrillic) when the user asks for it.
 **No tagline:** never put "smtm sense / smtm mess" (or any slogan) under the wordmark — the owner removed it. A new tagline may come later; leave the slot empty until then.
 Style in one line: **flat blocks of three colours, big bold uppercase type, nothing else.**
 Visual reference: `brandbook.html`. Ready renders: `out/`.
@@ -61,7 +61,7 @@ Common keys: `theme`, `kicker` (top-left label), `tag` (top-right pill), `handle
 | `banner` | 1500×500 | `theme` leaf/violet/crimson/stripes, `moth` trail/flight/front/none (default trail), `name`, `tag`. Avatar covers bottom-left ~330×170 — keep empty |
 | `quote` | 1600×900 | `text` |
 | `thread` | 1600×900, violet | `title`, `sub`, `count` ("1 / 9") |
-| `do-dont` | 1600×900 | `yes`, `no` (2–4 items each, `|`-separated, ≤6 words); headings `a`/`b` (default «так» / «не так»), labels `la`/`lb` |
+| `do-dont` | 1600×900 | `yes`, `no` (2–4 items each, `|`-separated, ≤6 words); headings `a`/`b` (default "do" / "don’t"), labels `la`/`lb` |
 | `list` | 1600×900 | `title`, `items` (3–6, `|`-separated) |
 | `collab` | 1600×900 | `partner`, `what`, `date` |
 | `stack` | 1080×1350 | `t1`, `t2`, `t3` (one idea per colour band), `kicker` |
@@ -75,7 +75,7 @@ New template: an HTML file in `templates/` linking `../brand.css`, using `.canva
 
 ## Pillars → theme
 
-Користь (tools, frameworks) → `leaf` · Треди й колаби → `violet` · Гострі думки (hot takes, fails) → `crimson`.
+Value (tools, frameworks) → `leaf` · Threads & collabs → `violet` · Hot takes (opinions, fails) → `crimson`.
 
 ## Workflow
 
